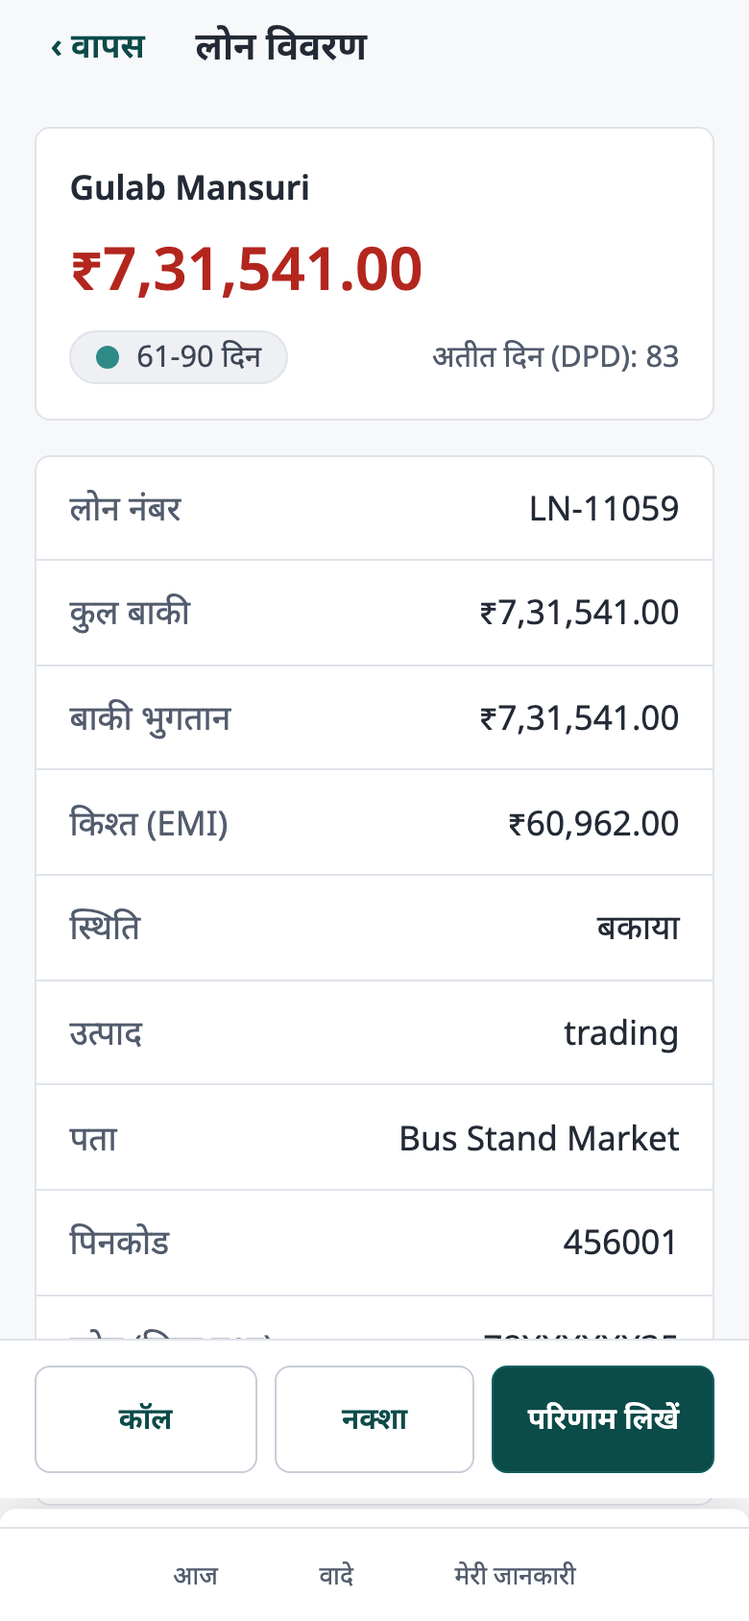
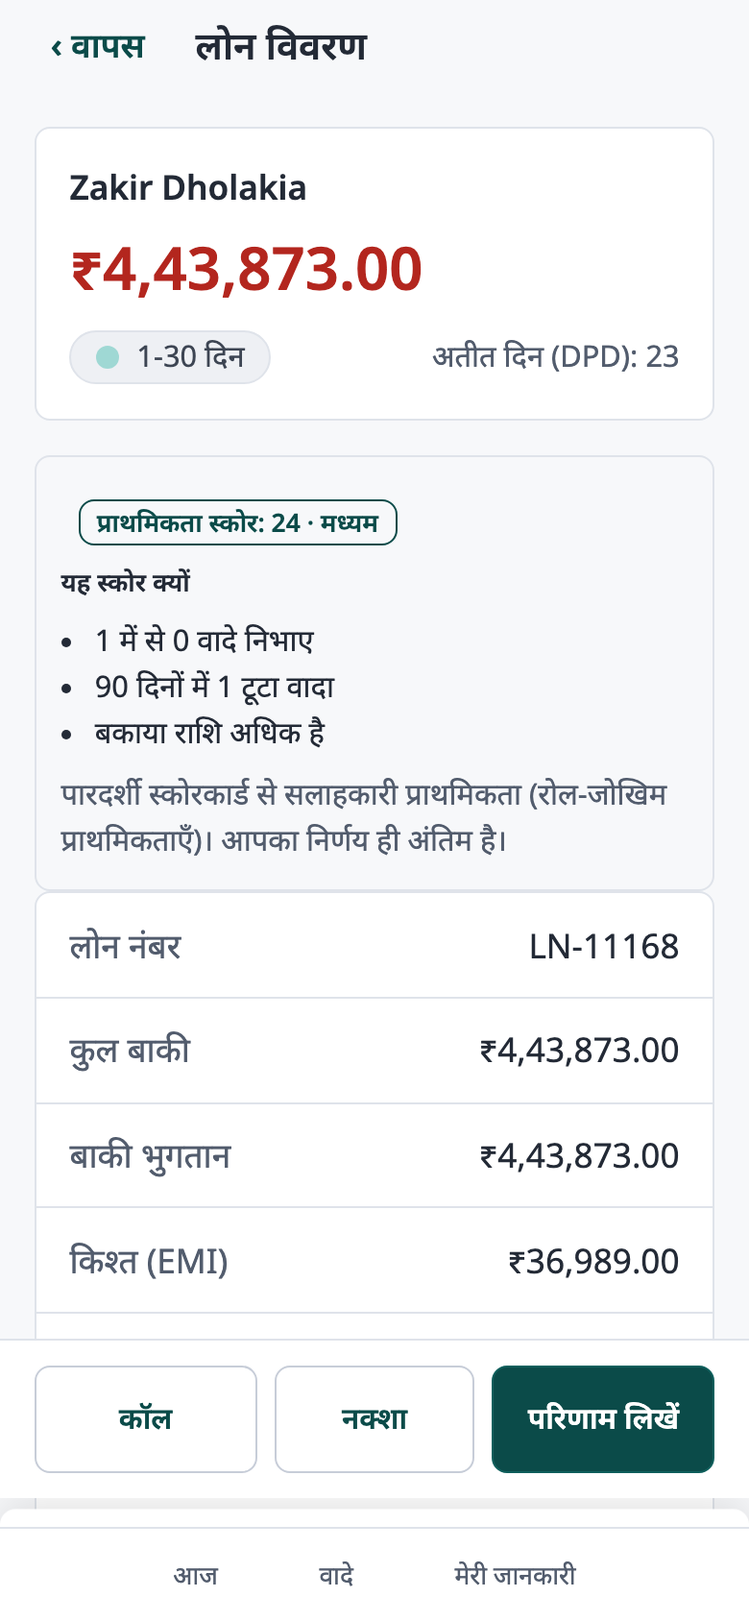
feat(scoring): params.json fitted, backtest report, JSON in the transpiled dev API
scripts/fit-standardisation.ts output committed: src/shared/scoring/
params.json (fitted from 175 overdue loans at as_of 2026-11-07, with an
sd floor at 5% of the mean - the seed's overdue is exactly 12 EMIs for
every loan, and a degenerate sd would turn rounding noise into a clipped
z of +/-3). runScoring verified live over the book: 175 scored, 20
promise-due pinned, 89 in the low lane, and a rerun writes no duplicates
(175 rows before and after).

scripts/backtest.ts + docs/backtest.md: the t0 cohort (n=136, roll rate
22.8%) scored from t0-available inputs only, time-based. Headline: AUC
0.613 (bootstrap 95% CI 0.504-0.720) vs DPD baseline 0.436 and
outstanding baseline 0.433 - dAUC +0.178 over the DPD baseline. Baseline
Brier is reported n/a (a rank score is not a probability) and their
decile tables show the raw score means; the where-it-was-wrong panel
lists the top over- and under-rated loans. The required sentences are in
the report; the weights were not tuned against this result.

dev-api/smoke-api copy runtime JSON imports (the scorecard weights) into
the per-file transpile output - check:api was broken by the new import.
Latent DATE $1 parameter casts fixed across the dal and the backtest
(neon rejects DATE $n syntax); the promise/assignments endpoints that
carried them were never live-exercised before this batch.

diff --git a/scripts/backtest.ts b/scripts/backtest.ts
@@ -49,24 +49,24 @@ const rows = (
     WITH cohort AS (
       SELECT s.loan_id, s.dpd, s.outstanding, l.bounce_count_12m, l.vintage_months, l.emi_amount
       FROM loan_snapshot s JOIN loan l ON l.loan_id = s.loan_id
-      WHERE s.as_of = DATE $1 AND s.dpd BETWEEN 1 AND 30
+      WHERE s.as_of = $1::date AND s.dpd BETWEEN 1 AND 30
     ), end_state AS (
-      SELECT loan_id, dpd FROM loan_snapshot WHERE as_of = DATE $2
+      SELECT loan_id, dpd FROM loan_snapshot WHERE as_of = $2::date
     )
     SELECT c.loan_id, c.dpd, c.outstanding, c.bounce_count_12m, c.vintage_months, c.emi_amount,
            (e.loan_id IS NOT NULL AND e.dpd >= 31) AS rolled,
            (SELECT count(*) FROM promise p WHERE p.loan_id = c.loan_id
-              AND p.status IN ('broken','broken_part') AND p.resolved_at < DATE $1)::int AS broken90,
+              AND p.status IN ('broken','broken_part') AND p.resolved_at < $1::date)::int AS broken90,
            (SELECT count(*) FROM promise p WHERE p.loan_id = c.loan_id AND p.status = 'kept'
-              AND p.created_at < DATE $1)::int AS kept,
+              AND p.created_at < $1::date)::int AS kept,
            (SELECT count(*) FROM promise p WHERE p.loan_id = c.loan_id AND p.status IN ('kept','broken','broken_part')
-              AND p.created_at < DATE $1)::int AS made,
+              AND p.created_at < $1::date)::int AS made,
            (SELECT ce.outcome FROM contact_event ce WHERE ce.loan_id = c.loan_id
-              AND ce.kind IN ('CALL','VISIT','MESSAGE') AND ce.attempted_at_ist < DATE $1
+              AND ce.kind IN ('CALL','VISIT','MESSAGE') AND ce.attempted_at_ist < $1::date
               ORDER BY ce.attempted_at_ist DESC LIMIT 1) AS last_outcome,
            (SELECT max((ce.attempted_at_ist AT TIME ZONE 'Asia/Kolkata')::date)::text FROM contact_event ce
               WHERE ce.loan_id = c.loan_id AND ce.kind IN ('CALL','VISIT','MESSAGE')
-              AND ce.attempted_at_ist < DATE $1) AS last_touch_date,
+              AND ce.attempted_at_ist < $1::date) AS last_touch_date,
            EXISTS (SELECT 1 FROM promise p WHERE p.loan_id = c.loan_id AND p.status IN ('broken','broken_part')) AS has_broken
     FROM cohort c LEFT JOIN end_state e ON e.loan_id = c.loan_id
     ORDER BY c.loan_id
@@ -183,12 +183,15 @@ function ks(pairs: { p: number; y: boolean }[]): number {
   return maxGap;
 }
 
-function decileTable(rowsIn: { p: number; y: boolean }[]): string[] {
+function decileTable(
+  rowsIn: { p: number; y: boolean }[],
+  opts: { meanLabel: string; formatValue: (p: number) => string }
+): string[] {
   const sorted = [...rowsIn].sort((a, b) => b.p - a.p);
   const n = sorted.length;
   const totalRolls = sorted.filter((r) => r.y).length;
   const lines: string[] = [];
-  lines.push('| decile | n | mean predicted | actual roll rate | lift | cumulative rolls captured |');
+  lines.push(`| decile | n | ${opts.meanLabel} | actual roll rate | lift | cumulative rolls captured |`);
   lines.push('| --- | --- | --- | --- | --- | --- |');
   let cumulativeRolls = 0;
   for (let d = 0; d < 10; d += 1) {
@@ -196,13 +199,13 @@ function decileTable(rowsIn: { p: number; y: boolean }[]): string[] {
     if (slice.length === 0) {
       continue;
     }
-    const meanPredicted = slice.reduce((acc, r) => acc + r.p, 0) / slice.length;
+    const meanValue = slice.reduce((acc, r) => acc + r.p, 0) / slice.length;
     const actual = slice.filter((r) => r.y).length;
     cumulativeRolls += actual;
     const baseRate = totalRolls / n;
     const lift = actual / slice.length / baseRate;
     lines.push(
-      `| ${d + 1} | ${slice.length} | ${(meanPredicted * 100).toFixed(1)}% | ` +
+      `| ${d + 1} | ${slice.length} | ${opts.formatValue(meanValue)} | ` +
         `${((100 * actual) / slice.length).toFixed(1)}% | ${lift.toFixed(2)}x | ` +
         `${((100 * cumulativeRolls) / Math.max(1, totalRolls)).toFixed(1)}% |`
     );
@@ -210,20 +213,21 @@ function decileTable(rowsIn: { p: number; y: boolean }[]): string[] {
   return lines;
 }
 
-function metrics(pairs: { p: number; y: boolean }[]): { auc: number; gini: number; ks: number; brier: number } {
+function metrics(pairs: { p: number; y: boolean }[], probability = true): { auc: number; gini: number; ks: number; brier: number | null } {
   const a = auc(pairs);
-  return { auc: a, gini: 2 * a - 1, ks: ks(pairs), brier: brier(pairs) };
+  // Brier needs probabilities: a rank score (DPD, outstanding) gets none.
+  return { auc: a, gini: 2 * a - 1, ks: ks(pairs), brier: probability ? brier(pairs) : null };
 }
 
 // --- the model, scored at t0 ---
 const modelPairs = loans.map((loan) => ({ p: loan.pRoll, y: loan.rolled }));
-const model = metrics(modelPairs);
+const model = metrics(modelPairs, true);
 
 // --- baselines: DPD descending and outstanding descending ---
 const dpdPairs = loans.map((loan) => ({ p: loan.dpd, y: loan.rolled }));
-const dpd = metrics(dpdPairs);
+const dpd = metrics(dpdPairs, false);
 const outstandingPairs = loans.map((loan) => ({ p: loan.outstanding, y: loan.rolled }));
-const outstanding = metrics(outstandingPairs);
+const outstanding = metrics(outstandingPairs, false);
 
 // --- bootstrap 95% CI for the AUC (resample the cohort, 1000 draws) ---
 let rngState = 20261108;
@@ -255,7 +259,7 @@ const ciHigh = bootstrapAucs[Math.ceil(0.975 * bootstrapAucs.length) - 1]!;
 const curedSorted = loans.filter((loan) => !loan.rolled).sort((a, b) => b.pRoll - a.pRoll).slice(0, 10);
 const rolledSorted = loans.filter((loan) => loan.rolled).sort((a, b) => a.pRoll - b.pRoll).slice(0, 10);
 
-const fmt = (value: number): string => (Number.isFinite(value) ? value.toFixed(3) : 'n/a');
+const fmt = (value: number | null): string => (value !== null && Number.isFinite(value) ? value.toFixed(3) : 'n/a');
 const rollRate = loans.filter((loan) => loan.rolled).length / loans.length;
 
 const report = `# Back-test: priority scorecard at t0 = ${t0}
@@ -268,8 +272,8 @@ const report = `# Back-test: priority scorecard at t0 = ${t0}
 | scorer | AUC | Gini | KS | Brier |
 | --- | --- | --- | --- | --- |
 | Scorecard | ${fmt(model.auc)} (95% bootstrap CI ${fmt(ciLow)}–${fmt(ciHigh)}) | ${fmt(model.gini)} | ${fmt(model.ks)} | ${fmt(model.brier)} |
-| Baseline: DPD descending | ${fmt(dpd.auc)} | ${fmt(dpd.gini)} | ${fmt(dpd.ks)} | ${fmt(dpd.brier)} |
-| Baseline: outstanding descending | ${fmt(outstanding.auc)} | ${fmt(outstanding.gini)} | ${fmt(outstanding.ks)} | ${fmt(outstanding.brier)} |
+| Baseline: DPD descending | ${fmt(dpd.auc)} | ${fmt(dpd.gini)} | ${fmt(dpd.ks)} | n/a (rank score, not a probability) |
+| Baseline: outstanding descending | ${fmt(outstanding.auc)} | ${fmt(outstanding.gini)} | ${fmt(outstanding.ks)} | n/a (rank score, not a probability) |
 
 **The honest value-add is the delta over the DPD baseline: ΔAUC = ${(model.auc - dpd.auc).toFixed(3)}.**
 
@@ -277,11 +281,11 @@ The data is synthetic, so this proves the pipeline works, not real-world accurac
 
 ## Decile table — scorecard
 
-${decileTable(modelPairs).join('\n')}
+${decileTable(modelPairs, { meanLabel: 'mean predicted', formatValue: (p: number) => `${(100 * p).toFixed(1)}%` }).join('\n')}
 
 ## Decile table — DPD baseline
 
-${decileTable(dpdPairs).join('\n')}
+${decileTable(dpdPairs, { meanLabel: 'mean DPD in decile', formatValue: (p: number) => p.toFixed(1) }).join('\n')}
 
 ## Calibration (scorecard, by predicted decile)
 

diff --git a/src/server/dal.ts b/src/server/dal.ts
@@ -341,8 +341,8 @@ export async function listOfficerAssignments(actor: Actor, todayIst: string): Pr
              sl.model_version,
              EXISTS (SELECT 1 FROM promise p
                       WHERE p.loan_id = l.loan_id AND p.status = 'open'
-                        AND p.promised_date <= DATE ${todayIst}
-                        AND p.promised_date + p.grace_days >= DATE ${todayIst}) AS due_promise,
+                        AND p.promised_date <= ${todayIst}::date
+                        AND p.promised_date + p.grace_days >= ${todayIst}::date) AS due_promise,
              (SELECT count(*) FROM promise p
                WHERE p.loan_id = l.loan_id AND p.status IN ('broken', 'broken_part'))::int AS broken_count
       FROM loan l
@@ -357,8 +357,8 @@ export async function listOfficerAssignments(actor: Actor, todayIst: string): Pr
       ORDER BY
         EXISTS (SELECT 1 FROM promise p
                  WHERE p.loan_id = l.loan_id AND p.status = 'open'
-                   AND p.promised_date <= DATE ${todayIst}
-                   AND p.promised_date + p.grace_days >= DATE ${todayIst}) DESC,
+                   AND p.promised_date <= ${todayIst}::date
+                   AND p.promised_date + p.grace_days >= ${todayIst}::date) DESC,
         (CASE WHEN sl.p_roll IS NOT NULL AND sl.p_roll < ${weights.lowLaneMaxPRoll}
                AND (SELECT count(*) FROM promise p WHERE p.loan_id = l.loan_id AND p.status IN ('broken', 'broken_part')) = 0
               THEN 1 ELSE 0 END) ASC,
@@ -557,7 +557,7 @@ export async function listStuckPromises(todayIst: string): Promise<(BrokenPromis
     JOIN loan l ON l.loan_id = p.loan_id
     LEFT JOIN officer o ON o.id = p.officer_id
     WHERE p.status IN ('broken', 'broken_part')
-      AND (p.promised_date + p.grace_days) <= DATE ${todayIst} - 2
+      AND (p.promised_date + p.grace_days) <= (${todayIst}::date - 2)
       AND NOT EXISTS (
         SELECT 1 FROM contact_event ce
         WHERE ce.loan_id = p.loan_id AND ce.attempted_at_ist >= p.resolved_at

diff --git a/src/server/scoring/features.ts b/src/server/scoring/features.ts
@@ -68,7 +68,7 @@ export async function collectLoanFeatures(asOf: string): Promise<ScoredLoanFeatu
              l.outstanding,
              (SELECT count(*) FROM promise p
                WHERE p.loan_id = l.loan_id AND p.status IN ('broken', 'broken_part')
-                 AND p.resolved_at >= DATE ${windowStart})::int AS broken90,
+                 AND p.resolved_at >= ${windowStart}::date)::int AS broken90,
              (SELECT count(*) FROM promise p
                WHERE p.loan_id = l.loan_id AND p.status = 'kept')::int AS kept,
              (SELECT count(*) FROM promise p
@@ -80,7 +80,7 @@ export async function collectLoanFeatures(asOf: string): Promise<ScoredLoanFeatu
                WHERE ce.loan_id = l.loan_id AND ce.kind IN ('CALL', 'VISIT', 'MESSAGE')) AS last_touch_date,
              EXISTS (SELECT 1 FROM promise p WHERE p.loan_id = l.loan_id AND p.status IN ('broken', 'broken_part')) AS has_broken,
              EXISTS (SELECT 1 FROM promise p WHERE p.loan_id = l.loan_id AND p.status = 'open'
-               AND p.promised_date <= DATE ${asOf} AND p.promised_date + p.grace_days >= DATE ${asOf}) AS due_promise
+               AND p.promised_date <= ${asOf}::date AND p.promised_date + p.grace_days >= ${asOf}::date) AS due_promise
         FROM loan l
        WHERE l.status = 'overdue'
        ORDER BY l.loan_id

diff --git a/scripts/fit-standardisation.ts b/scripts/fit-standardisation.ts
@@ -37,7 +37,11 @@ function meanSd(values: number[]): { mean: number; sd: number } {
   const n = values.length;
   const mean = values.reduce((a, b) => a + b, 0) / n;
   const variance = values.reduce((acc, v) => acc + (v - mean) * (v - mean), 0) / n;
-  return { mean: Math.round(mean * 1e6) / 1e6, sd: Math.round(Math.sqrt(variance) * 1e6) / 1e6 };
+  // Floor the SD at 5% of the mean (and at a small epsilon): a degenerate
+  // feature (the seed's overdue is exactly 12 EMIs for every loan) must not
+  // turn rounding noise into a clipped z of ±3.
+  const sd = Math.max(Math.sqrt(variance), Math.abs(mean) * 0.05, 1e-6);
+  return { mean: Math.round(mean * 1e6) / 1e6, sd: Math.round(sd * 1e6) / 1e6 };
 }
 
 const emiOf = (loan: (typeof loans)[number]): number | null =>

diff --git a/docs/log.md b/docs/log.md
@@ -1,5 +1,6 @@
 # Log
 
+- 2026-11-08: Prompt 12 — the AI priority score (SPEC 8): a transparent logistic scorecard, reasons, scored worklist order, fallback semantics, persistence and a back-test, in five commits. (1) Pure core test-first (16 tests): src/shared/scoring/{weights.json,scorecard.ts,phrases.ts} — z = clip((x-mean)/sd, -3, 3) on 8 continuous features, one-hot last-contact groups with no-contact as the reference, logit = logit(0.22) + Σ beta·clip(z) + Σ beta_g·x_g, score = round(100·p), bands High ≥ 40 / Medium 20-39 / Low < 20, kept rate shrunk (kept+2)/(made+3), capped bounces(4)/broken90(3); reasons are the model terms themselves (linear SHAP), additivity base + Σ = logit to 1e-9 tested on clipped/imputed/one-hot cases, top-3 by contribution with the fixed feature-order tie-break, templated bilingual phrases with evidence; worklistOrder (promise-due pinned → rupees at risk → low lane) and the fallback comparator as pure functions. (2) The server: collectLoanFeatures (one query, the same path fit and serving share), scoreBook/runScoring persisting immutable score_log rows keyed (loan_id, as_of) with model_version — idempotent upserts — and the "never fake the model" rule: scoring throws write nothing and flip the response to scoringMode 'fallback'. Migration 0004 adds score_log.rupees_at_risk (SPEC: store both numbers). scripts/fit-standardisation.ts writes the committed src/shared/scoring/params.json from the seeded data. (3) Worklist: /api/me/assignments LEFT JOIN LATERALs the latest score per loan and orders in SQL (promise-due DESC, low lane ASC, rupees at risk DESC NULLS LAST, then broken/DPD/overdue — the trailing keys ARE the fallback comparator when unscored); loan detail joins the latest score too. Hooks: every successful import re-scores the NEWEST batch only (a seed replaying 78 historical files must not score each book) and the nightly scores today; both audited, never fatal. (4) Client: Today cards follow the server order with a score chip (number + band text, never colour alone), a limited-data chip and the top reason line; a "scores unavailable — standard order" banner in fallback; loan detail gains the score panel (advisory chip, the three reasons, the your-judgement-leads line); full hi/en; the offline cache carries the new fields. (5) scripts/backtest.ts writes docs/backtest.md: the t0 cohort (1-30 DPD) scored from t0-available inputs only, time-based split, AUC with a 1000-draw bootstrap 95% CI, Gini, KS, Brier, decile tables with lift and cumulative rolls captured for the scorecard AND the DPD/outstanding baselines, calibration, the where-it-was-wrong panel, and the two required sentences (value-add = delta over the DPD baseline; synthetic data proves the pipeline, not real-world accuracy). Live: migrate 0004 → seed rerun (writes bounce_count_12m/vintage_months per A65) → fit-standardisation (committed output) → runScoring over the end-active book; layout audit + screenshots re-run; the headline numbers live in docs/backtest.md. Assumptions A65/A66.
 - 2026-11-08: Prompt 11 — seed part 2 (events + promises), the promise tracker, /api/me/promises, the nightly cron and the client Promises tab, in six commits. (0) Perf first: route-level code splitting — Login+Today eager, LoanDetail (with GPS), Me, the three on-tap sheets and the new Promises screen lazy; officer route (index chunk) 453.92 kB raw / 139.51 kB gzip → 437.09/135.23 → 425.96/131.28 kB gzip after adding the whole Promises feature (budget 150 kB, 88%); a chunk probe confirms no server/import code leaks into the client bundle. (1) src/shared/promiseState.ts test-first (11 named tests): deadline = promised_date + grace_days (default 1); kept when paid >= 95% of promised (integer cross-products) or the loan cleared early (A61 posting lag); broken when now > deadline and paid < 95% (broken_part at >= 25%); open on the deadline itself; keptRate = kept/(kept+broken+broken_part) over settled deadlines, null — never zero — when empty; superseded/disputed excluded. (2) applyImport now infers payments (source lms_delta) from the outstanding delta against the previous snapshot and from vanished (cleared) loans, posting at noon IST of the as_of; noop replays add nothing, a same-as_of replace deletes that IST day's inferred rows (even when the fresh inference is empty) and reinserts inside the import's transaction; report gains paymentsInferred; inferPaymentsFromDelta is pure + tested. (3) The nightly job (src/server/jobs/nightly.ts) re-derives every non-terminal promise's status from payments posted on/after the creation IST day, the loan's cleared flag and today's IST date — writing only changed rows, so a rerun over unchanged data updates nothing; it runs at the end of every successful import (audited, non-fatal) and from POST /api/jobs/nightly behind a constant-time CRON_SECRET bearer gate disabled while the env var is unset; vercel.json adds the daily cron (30 18 * * * = 00:30 IST) and .env.example the name. GET /api/me/promises (officer-scoped, through the dal) returns dueToday (promised today or inside grace), upcoming and brokenNeedingFollowup (no contact since the break) with borrower/amount/date/status/loan id; escalation is derived from data (A62): second break → needsManagerAttention, 2+ days past due with no action → stuck (cards + dal.listStuckPromises for the manager dashboard later). (4) Seed part 2: the pure generator promisesSeed.ts reads the loans + lms_delta payments the import wrote and DERIVES every status (A63) — per-loan Poisson(0.6) cap-4 background slots, band kept-wishes (68/58/45) subject to payment veto, one kept promise per cleared loan — then pins the demo story exactly (12 due today / 15 within 3 days / 8 in grace / 14 broken last 7 days / 40 kept history) weighted toward Rahul/Neha with the joiner empty by construction; events carry ~3% VIOLATION_DETECTED outside the window, exactly config.blocked_events BLOCKED attempts and Hindi-only notes; insert-only into contact_event (append-only trigger untouched), upsert-by-id for promises (the A50 repair pattern) so a rerun rebases the as-of-anchored story. (5) Client: Promises tab (nav Today/Promises/Me + live due-today badge), three segments, cards with lakh/crore amounts, status chips, stuck/second-break flags, one-tap Call through the EXACT detail-screen gating (extracted to sync/call.ts) and Log outcome via the same lazy OutcomeSheet (loan fetched on tap); sections cached in Dexie (24 h TTL, logout wipe), offline-created promises in Upcoming with a "Not synced yet" tag; skeleton/empty/error/offline states, full hi/en.
 - 2026-11-08 (same day, hardening the same batch — three live-run lessons, all caught by checks, none by eyeball): (a) the seed's part-2 story ids were NOT deterministic — the loan query had no ORDER BY, so Postgres' arbitrary row order re-seeded the rng differently per run and every uuid changed (diffed story vs DB: 220/220 ids mismatched); the query now orders by loan_id. (b) the nightly job read timestamptz through drizzle's neon-http execute, which returns ISO STRINGS — `instanceof Date` was always false, every settled row looked unresolved, and the job rewrote 191 rows per run (diffed: resolved_at was the giveaway); parseTimestamp now accepts both shapes, and the end-of-seed consistency check (run the job, require updated = 0) went green — it had caught both (a) and (b) on the first pass, exactly its job. (c) the demo story is anchored to the as-of clock: the end-of-import recompute runs on the REAL clock and ages in-grace rows once the real date passes the deadline, so promise rows upsert (repair) on rerun while contact_event stays insert-only; the story ages until the next reseed rebases it (A63). Live: full --reset reseed exit 0 (78 files, zero aborts; one Neon websocket drop at 70/78 mid-batch was resumed without --reset — 73 noop + 5 imported, A35 idempotence holding live), part-2 summary: 226 promises (open 35 / kept 138 / broken 53) + 495 events (22 violations, 12 blocked, 179 Hindi notes), orphan/missing-loan checks all 0, nightly recompute over the seeded data updated 0, kept rate 72.3%; layout audit 23/23 states clean (it caught the Hindi nav badge truncating "वादे" + count — badge moved inline); 28 screenshots incl. promises due/outcome/upcoming/broken/empty in hi+en; 537 tests; smoke:live all-pass against the deployment (usernames=4 — step 0.5 is live there). Assumptions A61-A64.
 - 2026-11-08: Step 0.5 — demo chips rebuilt around seeded staff (before seed part 2), because 1 overdue loan per demo officer made a poor demo. The chips now LINK to seeded staff instead of owning officers: demo-officer-1 → Rahul Chouhan (Indore), demo-officer-2 → Neha Solanki (Dewas), demo-officer-3 → a new joiner officer created on the demo branch UJJAIN with deliberately NO territory rows (exactly 0 loans — the empty state), demo-manager → Indore's branch manager Kavita Rathore by branch (user row follows her branch; a manager has no officer row). ensureDemoAccounts resolves every link from the database by name/username and FAILS loudly on a missing staff member instead of fabricating one (the standalone pnpm demo:accounts therefore requires a seeded database); only the joiner is created, and each demo user's branch follows its linked officer/manager. All A50 demo plumbing is removed: the Nanakheda/Dewasgate territory slices (plan back to 9 rows), the two pinned demo loans (loans.ts demo-pin block reverted), seed_config's ujjain_demo_locality_share (and ujjain_localities became the scalar 'Freeganj' — a one-entry list is unrepresentable in the strict YAML subset). territoryOfficerIds gains a consistency guard: a linked chip whose id differs from the staff map for the same officer name fails the run (the demo lookup saw another row) — the writeTerritory map can no longer silently shadow a staff officer. The demo bar (>= 10 assigned overdue loans for linked chips, 0 for the joiner and manager) lives on DEMO_ACCOUNTS as minOverdueLoans, the single source for the seed summary's WARNING line and the offline tests; the seed summary's demo table now prints the manager's linked manager username, drives its username lists from the run's own staff wiring (staff.demoUsernames + manager usernames, the A50 lesson), and main.ts' banner says '9 staff officers'. New shared fixture scripts/seed/staffIdsFixture.ts shapes StaffIds exactly as upsertStaff + ensureDemoAccounts produce them (linked chips carry the STAFF officer's id, the joiner a fresh one) and demoWorklist/staff/briefAssignment/territoryWiring tests all run the real territoryOfficerIds → buildTerritoryRows wiring over it; demoWorklist asserts Rahul/Neha >= 10 overdue via the real planAssignment on the pinned seed, the joiner exactly 0, and the manager unroutable. smoke:live now requires demo-officer-1's worklist to hold >= 10 assigned loans (was: non-empty). Live reseed (--seed 20261105 --as-of 2026-11-07 --yes --reset) + smoke:live both green before push; a reseed with --reset is REQUIRED on any database carrying the old demo design (stale demo officers/users/slices die only in the truncate). Assumption A60.

diff --git a/docs/assumptions.md b/docs/assumptions.md
@@ -66,3 +66,5 @@ A49 (Hindi copy): all officer-facing Hindi strings in src/client/i18n/dictionary
 - A62 (promise escalation from data, no tasks table, 2026-11-08, prompt 11 item 3): SPEC 12's escalation ladder is derived, never stored as tasks. A loan with a SECOND broken promise flags manager attention (EXISTS over the promise table). A promise 2+ days past its deadline (promised_date + grace_days) with NO contact event on the loan since the break resolved_at is STUCK — surfaced on the officer's broken cards and as dal.listStuckPromises (company-wide) for the manager dashboard. broken_needs_followup = broken with no contact event since the break; a follow-up contact removes the row from the section without touching the promise row.
 - A63 (seed part 2 status consistency + demo story numbers, 2026-11-08, prompt 11 item 4): seed-written promise statuses are DERIVED, never rolled — the generator computes what the nightly recompute derives from the same payments (kept only on loans that cleared or whose payments since creation cover >= 95% of the promised amount; broken_part at >= 25%), and the seed's final consistency check runs the job over the seeded data requiring updated = 0. The Poisson(0.6) cap 4 counts a loan's BACKGROUND promise slots; the band rates (68/58/45) decide whether a slot WANTS to be kept and the payment data may veto it (the wish then becomes a broken_part/broken row or vanishes). This reconciles the ~60% kept-rate target with SPEC 14's demo story: the 40-kept-history figure is pinned by the demo pass while the background adds more kept rows on supported loans, so the live kept rate lands where the data supports it (printed in the summary; the 60% target is directional, not exact). Cleared loans carry exactly one kept promise each (created before their clearance payment posts). superseded/disputed rows are deliberately NOT seeded (those statuses are covered by unit tests; the demo's one-open-promise invariant stays trivially safe). The demo story spreads over the loan's own officer, weighted ~60% toward the demo officers' loans (Rahul/Neha); the joiner demo-officer-3 has no loans and stays the empty state. In-grace promises (promised yesterday, deadline today) surface under "Due today" in the client — still actionable.
 - A64 (promises screen scope, 2026-11-08, prompt 11 item 5): the officer Promises tab shows the three server sections (Due today = promised today or still inside grace, Upcoming = promised later within 30 days, Broken = broken with no contact since the break) with one-tap Call reusing the detail screen's exact window gating + reveal (extracted into sync/call.ts) and Log outcome opening the same OutcomeSheet after fetching the loan (the sheet's promise validation needs the loan's overdue/outstanding). Offline: sections cache in Dexie (24 h TTL, logout wipe) and outbox promise_to_pay items appear in Upcoming with a "Not synced yet" tag until the flush confirms them. The nav badge counts the cached due-today rows via liveQuery. The manager promise view arrives with the manager dashboard.
+- A65 (bounce and vintage provenance, 2026-11-08, prompt 12): the LMS CSV carries no bounce or vintage column, so bounce_count_12m is the scorecard's PROXY for "bounces last 6 months" (SPEC 8's feature name; the 12-month column is what exists — stated here as instructed) and both it and vintage_months are written onto the loan rows by the seed's part-2 pass from the generator's ground truth — the synthetic equivalent of a side feed a real deployment would provide. Last-contact features filter to CALL/VISIT/MESSAGE (A29: BLOCKED is a window denial, not a touch); outcome groups map unreachable ← not_reachable/wrong_number, refused ← refused/dispute, promised ← promise_to_pay, part_paid ← paid, with NO CONTACT as the one-hot reference.
+- A66 (scorecard semantics, 2026-11-08, prompt 12): (1) the one-hot outcome family is UNCENTERED (contribution = beta_g * x_g, none = 0) so b0 stays logit(0.22) as the never-contacted, portfolio-mean loan's logit; the continuous features contribute beta*clip(z) — the sd-scaled form of SPEC 8's beta*(x-mean), making base + Σcontributions = logit exact to 1e-9. (2) Fallback is response-level and only when the MODEL cannot run (params missing/mismatch): no rows are written, the dal's trailing order keys ARE the fallback comparator (broken, then DPD, then overdue), and scoringMode='fallback' drives the client's "Standard order" banner. Missing single features impute the portfolio mean and flag the card "Limited data" — never hidden. (3) The low lane is p_roll < 0.10 AND no broken promise ever; the worklist pins promise-due (promised ≤ today ≤ deadline) first, then rupees at risk. (4) score_log is keyed (loan_id, as_of) with model_version on every row; the import hook scores only the NEWEST batch (a seed replaying 78 historical files must not score each historical book); the nightly scores today. (5) The back-test scores the t0 cohort from t0-available inputs; the t0 snapshot has no overdue column so that feature imputes (stated in the report); the committed standardisation params were fitted at the end date — portfolio means/SDs, not outcome-derived; the weights are the SPEC's expert priors and were NOT tuned against the back-test result.

diff --git a/docs/backtest.md b/docs/backtest.md
@@ -1,0 +1,82 @@
+# Back-test: priority scorecard at t0 = 2026-10-08
+
+**Cohort**: every loan in 1-30 DPD at the t0 snapshot (n = 136); outcome = rolled to 31+ DPD by the end snapshot 2026-11-07 (actual roll rate 22.8%).
+**Inputs at t0 only**: DPD and outstanding from the t0 snapshot, promises and contact events strictly before t0, static loan attributes. The t0 overdue amount is not in the snapshot — that feature imputed the portfolio mean for 136 of 136 loans (limited data), stated plainly.
+**Model**: the committed scorecard (model scorecard-v1-priors) with the committed standardisation params (fitted at the end date — portfolio means/SDs, not outcome-derived). The weights are the SPEC's expert priors and were **not** tuned against this result.
+**Split**: time-based (t0 history vs the fixed +30-day outcome window). No random split.
+
+| scorer | AUC | Gini | KS | Brier |
+| --- | --- | --- | --- | --- |
+| Scorecard | 0.613 (95% bootstrap CI 0.504–0.720) | 0.226 | 0.222 | 0.179 |
+| Baseline: DPD descending | 0.436 | -0.129 | 0.161 | n/a (rank score, not a probability) |
+| Baseline: outstanding descending | 0.433 | -0.135 | 0.169 | n/a (rank score, not a probability) |
+
+**The honest value-add is the delta over the DPD baseline: ΔAUC = 0.178.**
+
+The data is synthetic, so this proves the pipeline works, not real-world accuracy.
+
+## Decile table — scorecard
+
+| decile | n | mean predicted | actual roll rate | lift | cumulative rolls captured |
+| --- | --- | --- | --- | --- | --- |
+| 1 | 13 | 30.6% | 38.5% | 1.69x | 16.1% |
+| 2 | 14 | 20.4% | 28.6% | 1.25x | 29.0% |
+| 3 | 13 | 16.9% | 15.4% | 0.67x | 35.5% |
+| 4 | 14 | 14.3% | 21.4% | 0.94x | 45.2% |
+| 5 | 14 | 12.2% | 35.7% | 1.57x | 61.3% |
+| 6 | 13 | 9.8% | 30.8% | 1.35x | 74.2% |
+| 7 | 14 | 8.1% | 14.3% | 0.63x | 80.6% |
+| 8 | 13 | 6.9% | 15.4% | 0.67x | 87.1% |
+| 9 | 14 | 5.4% | 21.4% | 0.94x | 96.8% |
+| 10 | 14 | 3.5% | 7.1% | 0.31x | 100.0% |
+
+## Decile table — DPD baseline
+
+| decile | n | mean DPD in decile | actual roll rate | lift | cumulative rolls captured |
+| --- | --- | --- | --- | --- | --- |
+| 1 | 13 | 28.6 | 15.4% | 0.67x | 6.5% |
+| 2 | 14 | 25.6 | 14.3% | 0.63x | 12.9% |
+| 3 | 13 | 22.8 | 23.1% | 1.01x | 22.6% |
+| 4 | 14 | 19.5 | 14.3% | 0.63x | 29.0% |
+| 5 | 14 | 16.7 | 21.4% | 0.94x | 38.7% |
+| 6 | 13 | 14.8 | 30.8% | 1.35x | 51.6% |
+| 7 | 14 | 12.4 | 28.6% | 1.25x | 64.5% |
+| 8 | 13 | 8.6 | 38.5% | 1.69x | 80.6% |
+| 9 | 14 | 5.2 | 28.6% | 1.25x | 93.5% |
+| 10 | 14 | 1.9 | 14.3% | 0.63x | 100.0% |
+
+## Calibration (scorecard, by predicted decile)
+
+Mean predicted vs actual roll rate per decile — the first table's "mean predicted" and "actual roll rate" columns are the calibration view; a calibrated model has the two columns close on every row.
+
+## Where the score was wrong
+
+### Top 10 high-score loans that cured (the model over-rated them)
+
+| loan | score | predicted | DPD at t0 | outstanding |
+| --- | --- | --- | --- | --- |
+| LN-11159 | 35 | 34.8% | 26 | 74270000 |
+| LN-11231 | 34 | 34.3% | 16 | 58082500 |
+| LN-11201 | 33 | 33.4% | 30 | 68375900 |
+| LN-11245 | 24 | 24.5% | 25 | 93320700 |
+| LN-11216 | 24 | 24.1% | 29 | 79486100 |
+| LN-11135 | 24 | 24.0% | 25 | 106663800 |
+| LN-11095 | 22 | 22.5% | 11 | 65071400 |
+| LN-11207 | 22 | 22.4% | 19 | 80274600 |
+| LN-11161 | 22 | 22.2% | 16 | 72133500 |
+| LN-11187 | 22 | 21.8% | 21 | 207570600 |
+
+### Top 10 low-score loans that rolled (the model under-rated them)
+
+| loan | score | predicted | DPD at t0 | outstanding |
+| --- | --- | --- | --- | --- |
+| LN-11200 | 4 | 4.4% | 8 | 50344600 |
+| LN-11179 | 5 | 4.8% | 22 | 43604000 |
+| LN-11128 | 5 | 5.1% | 5 | 36105300 |
+| LN-11147 | 6 | 5.8% | 14 | 43791000 |
+| LN-11250 | 7 | 6.8% | 13 | 22084400 |
+| LN-11113 | 7 | 7.2% | 10 | 15802100 |
+| LN-11254 | 8 | 7.7% | 23 | 86120500 |
+| LN-11153 | 9 | 8.8% | 18 | 60451600 |
+| LN-11109 | 9 | 9.3% | 20 | 17419000 |
+| LN-11127 | 9 | 9.4% | 6 | 55447300 |
